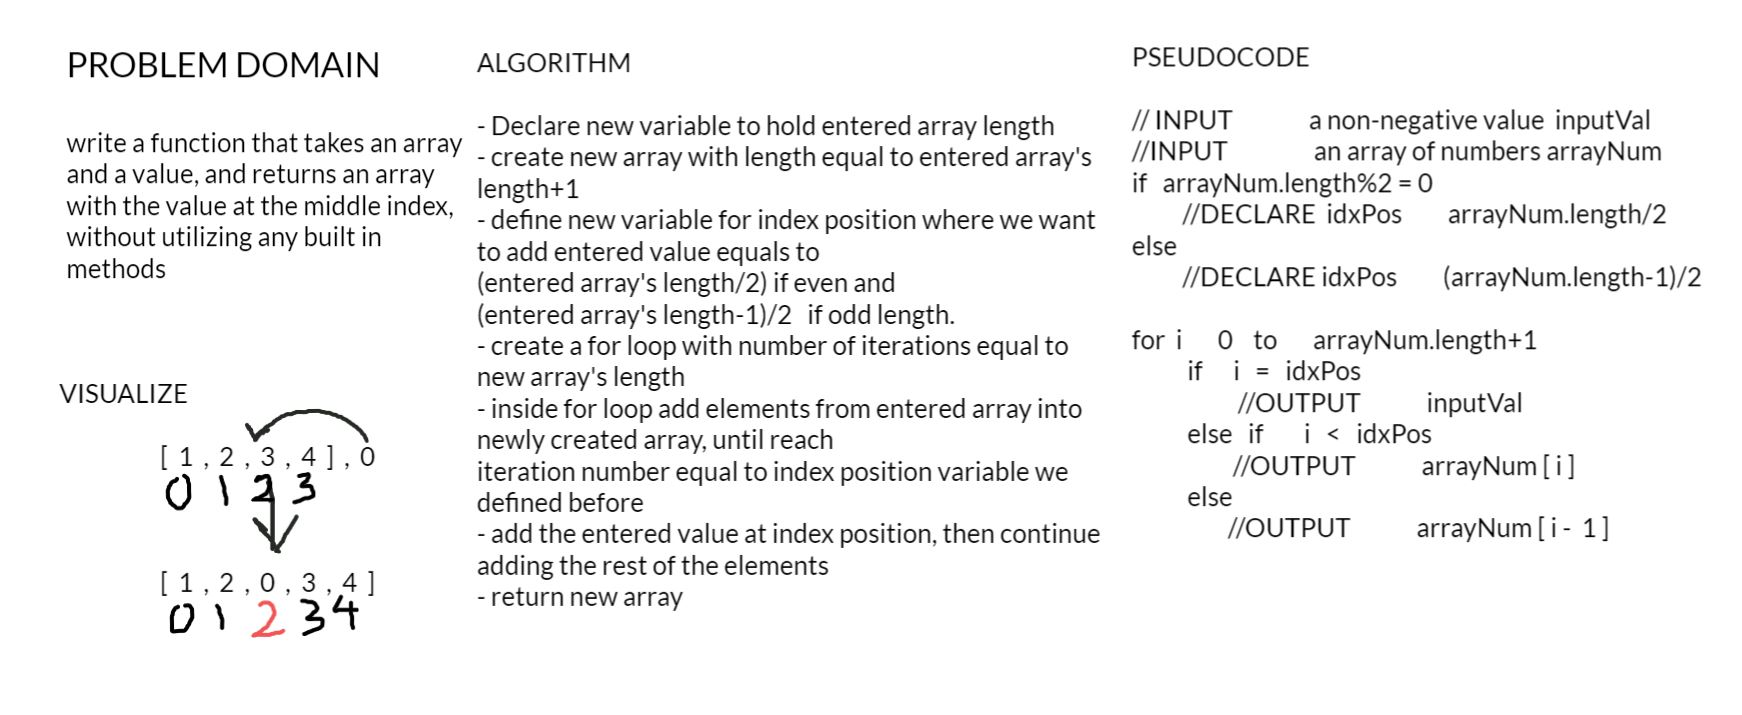
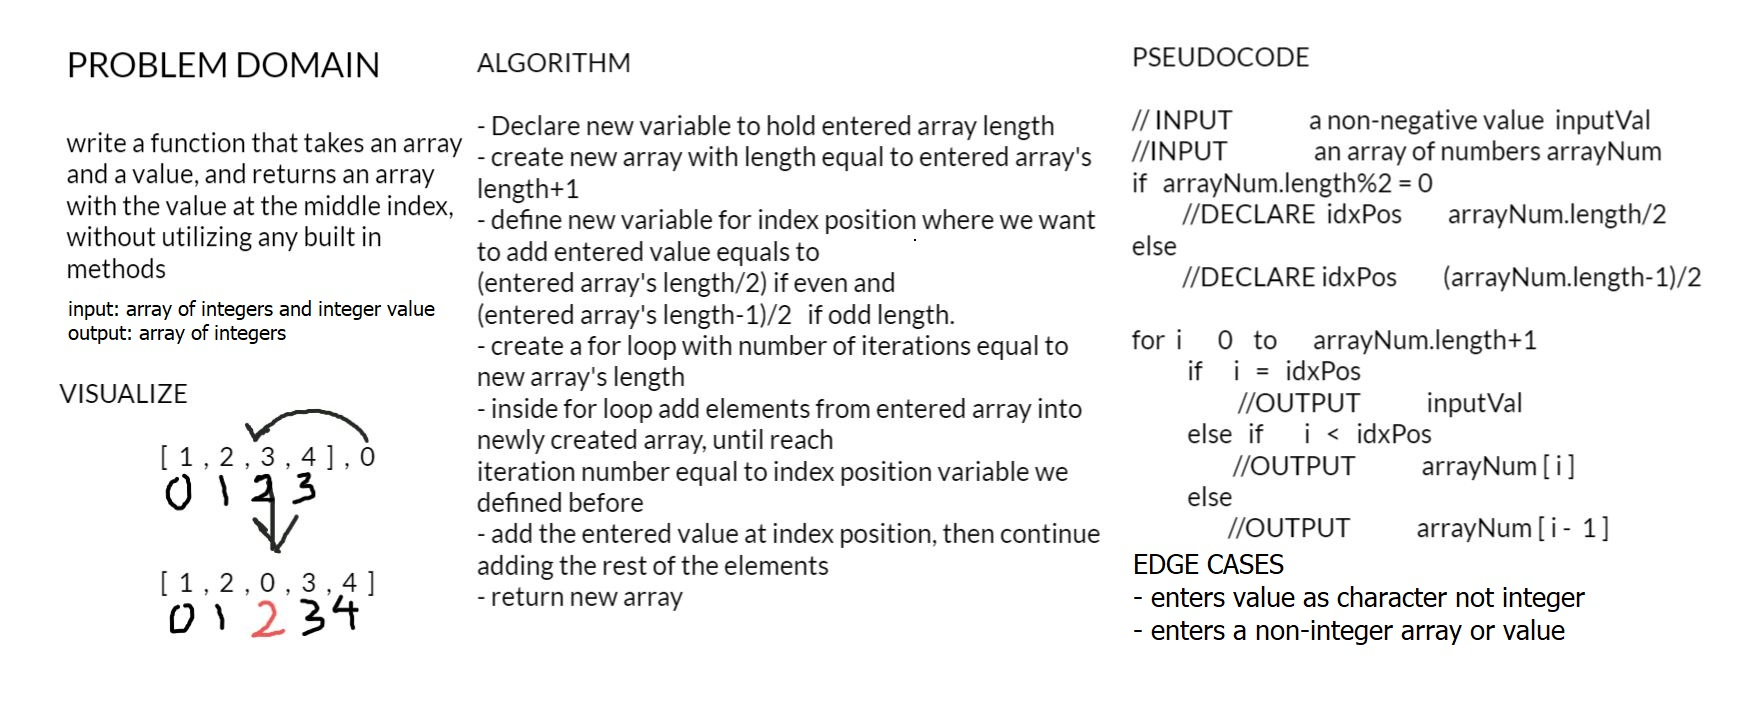
adding edge cases and code

Changed region(s): [[0.651, 0.7692, 0.93, 0.8923], [0.031, 0.4, 0.248, 0.4923]]

diff --git a/challenges/array-insert-shift-challenge/code.md b/challenges/array-insert-shift-challenge/code.md
@@ -1,0 +1,20 @@
+```
+public int[] center(int[] inputArr, int val){
+        int idxPos = 0;
+        int[] newArr = new int[inputArr.length+1];
+        if (inputArr%2 ==0){
+            idxPos = inputArr.length/2;
+        }else{
+            idxPos = (inputArr.length-1)/2;
+        }
+        for (int i=0 ; i<inputArr.length+1;i++){
+            if (i=idxPos){
+                newArr[i] = val;
+            }else if(i<idxPos){
+                newArr[i] = inputArr[i];
+            }else{
+                newArr[i] = inputArr[i-1];
+            }
+        }
+        return newArr;
+    }
